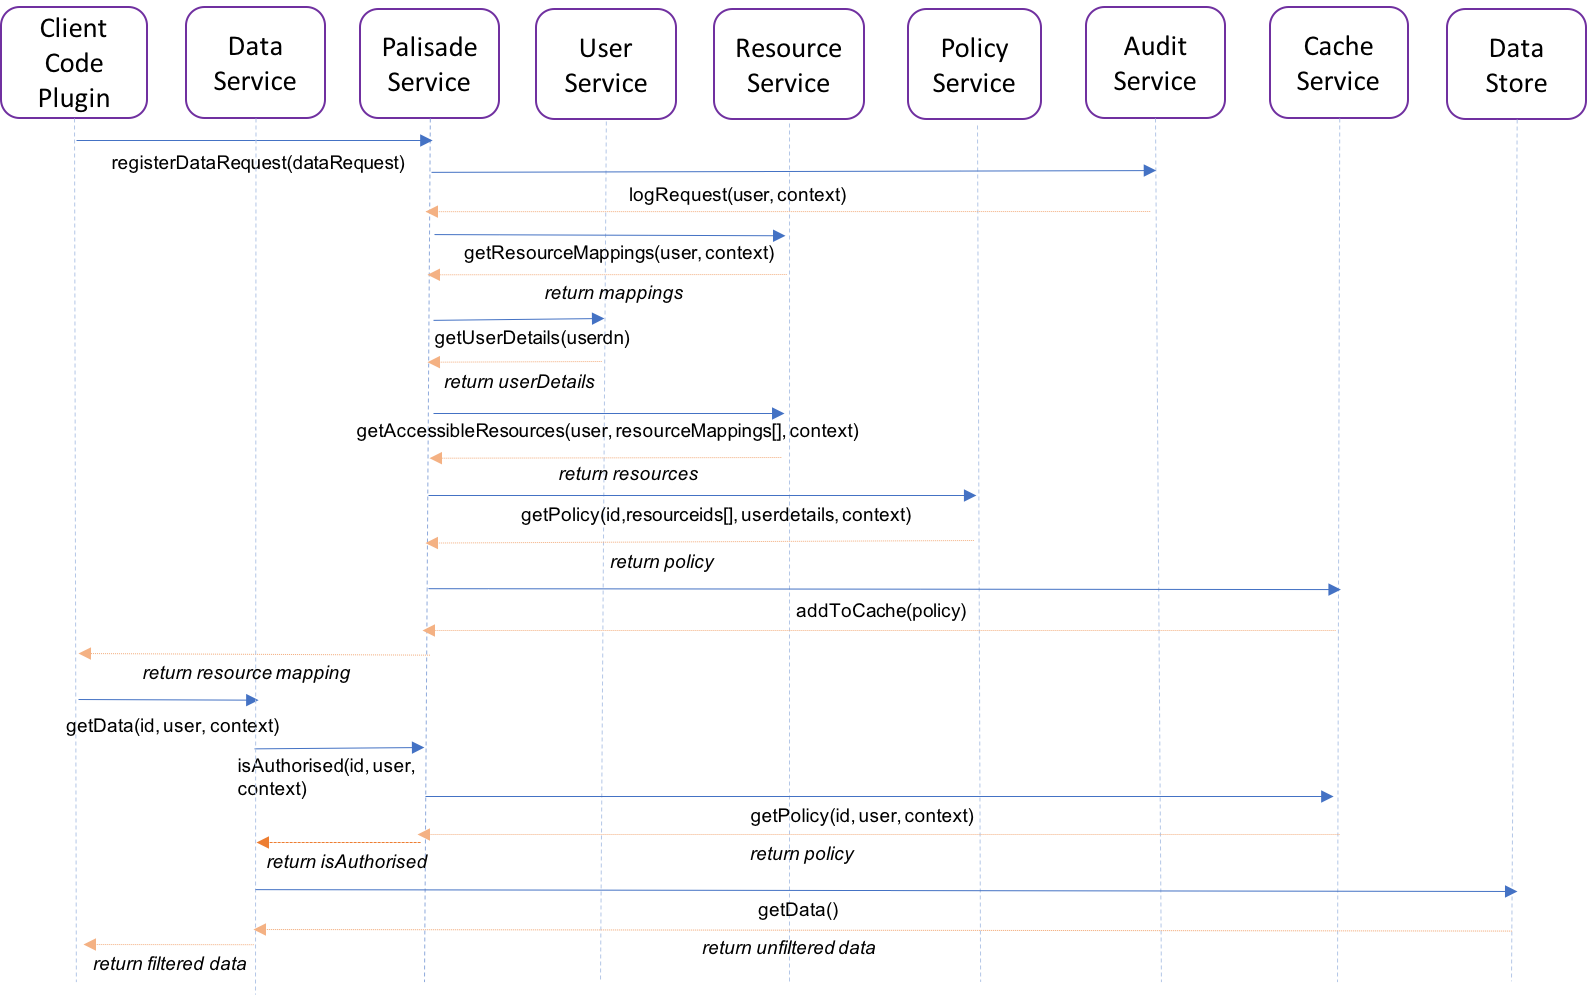
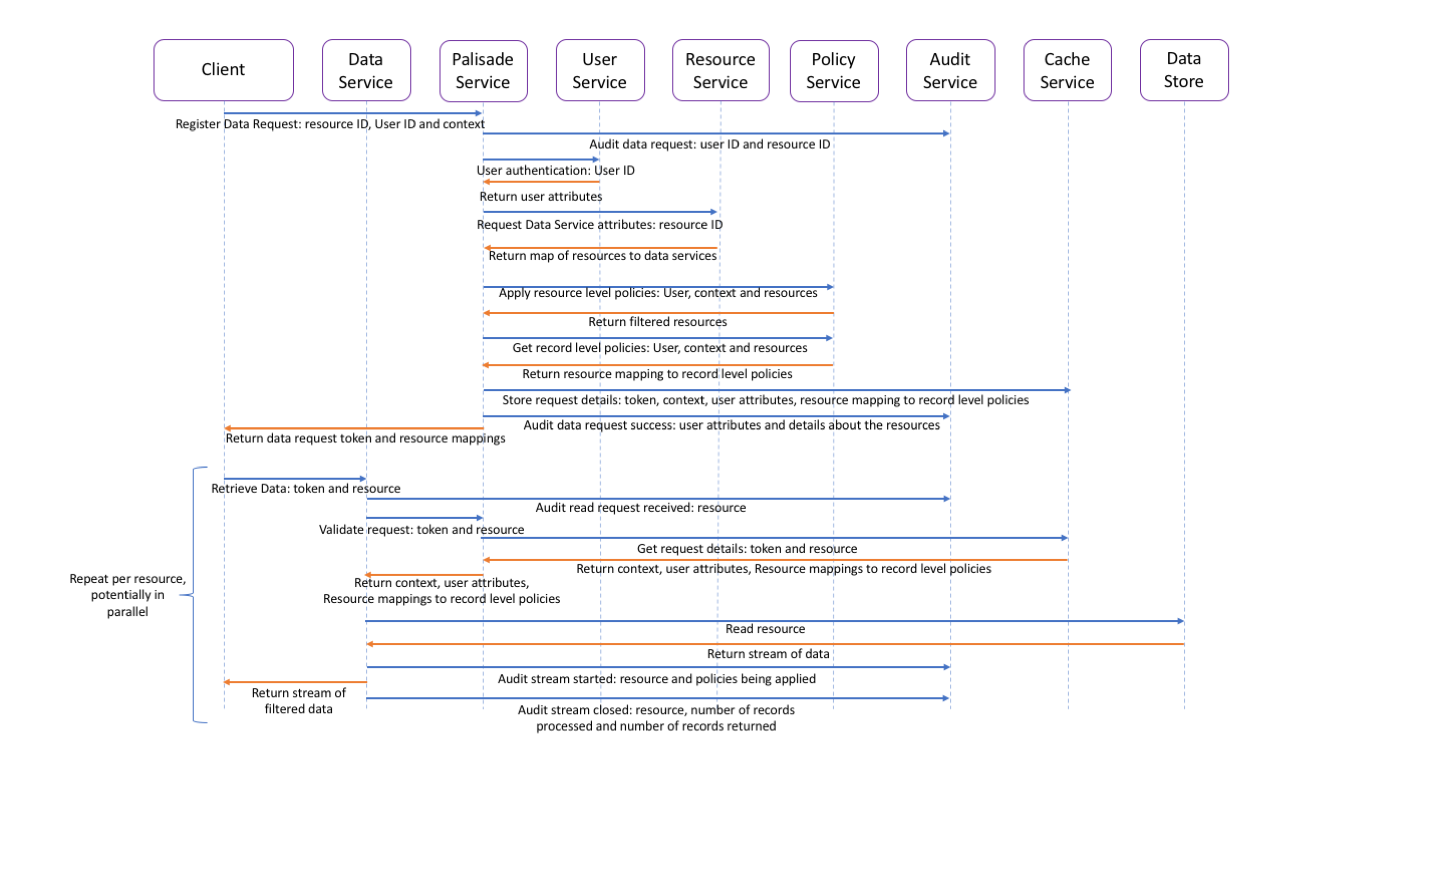
gh-74 - Updated the flow diagram

diff --git a/doc/developer-guide/read_process.md b/doc/developer-guide/read_process.md
@@ -2,36 +2,40 @@
 
 ![picture](../img/sequence.png)
 
-1. The user makes use of a plug-in (client code) for the data processing technology that they are using which makes it almost invisible to them that they are actually querying data via Palisade.
+1. The user makes use of a plug-in (client) for the data processing technology that they are using which makes it almost invisible to them that they are actually querying data via Palisade.
 
-2. For a distributed workflow that client code will usually be made up of a driver component and an executor/mapper component. The driver component starts by registering the data request with the 
+1. For a distributed workflow that client code will usually be made up of a driver component and an executor/mapper component. The driver component starts by registering the data request with the 
 palisade service, stating the resources/alias mapping to resources that they want to query, along with a user id and any required context such as a purpose for querying the data.
 
-3. The palisade service receives that request, authenticates the user and then sends a message to the audit service to log the request.
+1. The palisade service receives that request, sends a message to the audit service to log the request and then authenticates the user.
 
-4. The palisade service then requests the mapping of how to connect to the relevant data service(s) to retrieve each of the resources requested. This may allow aliases which map to a list of resources, 
+1. The palisade service then requests the full details about the user from the user service.
+
+1. The palisade service then requests from the resource service the mapping of how to connect to the relevant data service(s) to retrieve each of the resources requested. This may allow aliases which map to a list of resources, 
 which would need to be resolved by the resource service.
 
-5. The palisade service then requests the full details about the user from the user service.
+1. The Palisade service requests from the policy service the details of which of the resources the user is allowed to access at a resource level.
 
-6. The Palisade service requests the details of which of the resources the user is allowed to access at a resource level.
-
-7. The palisade service then requests from the policy service the record level rules to be applied to each of the resources, passing in the full user details returned by the user service, 
+1. The palisade service then requests from the policy service the record level rules to be applied to each of the resources, passing in the full user details returned by the user service, 
 any context passed in by the client code and the list of resources returned by the resource service.
 
-8. The palisade service then caches the response from the policy service in the cache service, so that any palisade service can respond to the data server later on.
+1. The palisade service then caches the response from the policy service in the cache service, keyed by a unique token, so that any palisade service can respond to the data server later on.
 
-9. The palisade service then returns the resource to connection detail mapping of the resources that the user is allow to access to the client in response to the client registering the request.
+1. The palisade service then returns the token along with the resource to data service connection details mapping of the resources that the user is allow to access to the client in response to the client registering the request.
 
-10. The client code, having received the mapping of resource-to-connection details, can now split the resources up over its executors and then each executor can request each of the resources
+1. The palisade service will log for auditing that the registration has been successful along with the details of what resources are being approved for the user to read.
+
+1. The client code, having received the mapping of resource to data service connection details, can now split the resources up over its executors and then each executor can request each of the resources
 from the relevant data service(s).
 
-11. The data service receives the request to read a resource and passes that request to the palisade service to authenticate the request and provide the record level rules to be applied to that resource.
+1. The data service receives the request to read a resource which is the logged for auditing.
 
-12. The palisade service responds to the data service by retrieving from the cache service the required details that was cached in step 8.
+1. The data service then passes that request to the palisade service to authenticate the request and provide the record level rules to be applied to that resource, the user attributes and the context.
 
-13. The data service uses the response to read the resource and apply the rules.
+1. The palisade service responds to the data service by retrieving from the cache service the required details that was previously cached.
 
-14. The filtered and transformed data is then streamed back to the client.
+1. The data service uses the response to read the resource and apply the rules.
 
-15. The client then formats the code in the way that the data processing technology expects the data, so the user's code can proceed as if Palisade was never there.
+1. The filtered and transformed data is then streamed back to the client.
+
+1. The client then formats the code in the way that the data processing technology expects the data, so the user's code can proceed as if Palisade was never there.
